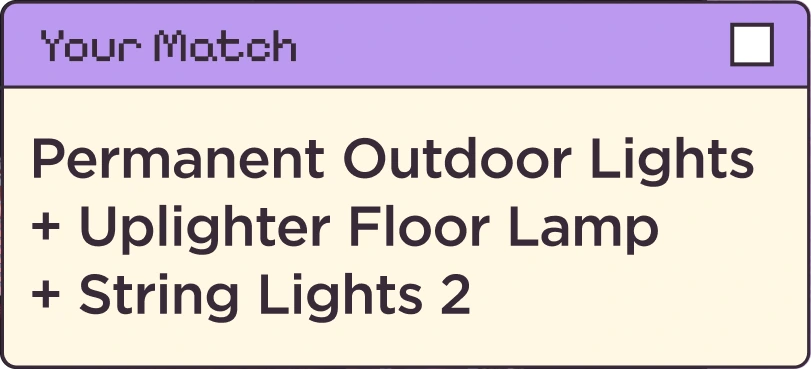
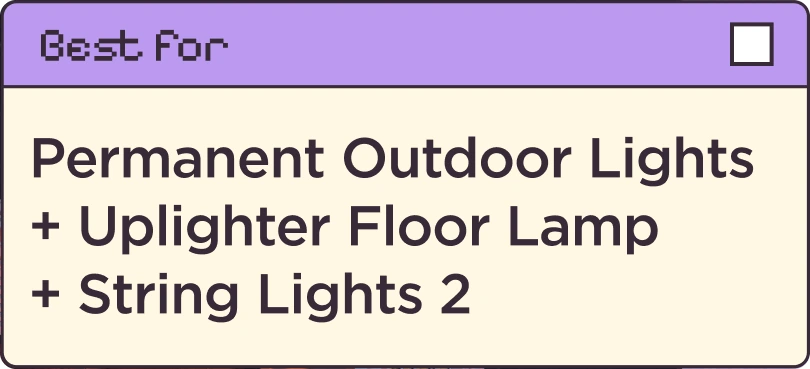
Cycle the photos on results 5 and 6, apply the 19 Nov frame changes
Client update 19 Nov: results 5 and 6 recommend several products, so their
photo now cycles "like a GIF".

- Photo cycle: r5 outdoor/indoor, r6 outdoor/indoor/Christmas room. A hard
  cut every 1.2s, looping, as in the client's Figma Motion export. All
  photos are preloaded and stacked so each cut is instant; WebP rather than
  GIF, so no colour banding. Reduce Motion keeps the first photo.
- Photos rendered from the original fills with Figma's crop (fitted against
  the animation frames); the Christmas photo is mirrored, as in Figma.
- r5 chip header "Your Product", r6 chip header "Best for" (moved 6px right,
  8px up), r5 lower stars moved up 4px: re-cut from the new frames. r6 outdoor
  photo re-cut so the old chip no longer shows behind the new one.
- r6: two yellow sparkles that float above the frame in Figma.
- Asset budget raised to 2.5 MB (every result now has a photo).

diff --git a/src/lib/art-layers.ts b/src/lib/art-layers.ts
@@ -88,8 +88,9 @@ export const ART_LAYERS: Record<string, ArtLayer[]> = {
     { src: "/art/r5/Group 10879104.svg", role: "sticker", x: 267.75, y: 516.25, w: 116, h: 75 },
     { src: "/art/r5/Group 10879102.svg", role: "decor", x: 301, y: 323.25, w: 60, h: 64 },
     { src: "/art/r5/Cursor.svg", role: "cursor", x: 322.5, y: 182.25, w: 60, h: 73 },
-    // A smaller, mirrored copy of the top cluster: cut from the frame.
-    { src: "/art/r5/stars-lower.webp", role: "decor-low", x: 24, y: 650.25, w: 53, h: 56.5 },
+    // A smaller, mirrored copy of the top cluster: cut from the frame
+    // (re-cut 19 Nov, when the client moved it up 4px).
+    { src: "/art/r5/stars-lower.webp", role: "decor-low", x: 23.5, y: 646, w: 52.75, h: 57 },
   ],
   r6: [
     { src: "/art/r6/Group 10879086.svg", role: "badge", x: 0, y: 47, w: 114, h: 141 },
@@ -100,6 +101,12 @@ export const ART_LAYERS: Record<string, ArtLayer[]> = {
     { src: "/art/r6/chip-best.webp", role: "chip", x: 12.5, y: 430.75, w: 149, h: 74.75 },
     { src: "/art/r6/Group 10879105.svg", role: "sticker", x: 262.75, y: 523, w: 117, h: 83 },
     { src: "/art/r6/Cursor.svg", role: "cursor", x: 322.5, y: 182.25, w: 60, h: 73 },
+    // Two yellow sparkles added 19 Nov. In Figma they float on the canvas
+    // above the frame (layers 427:2399 / 427:2400) rather than inside it, so
+    // no export includes them; placed by registering a zoomed canvas capture
+    // against the frame. Same vector at two sizes.
+    { src: "/art/r6/sparkle.svg", role: "decor", x: 25.8, y: 324.4, w: 55.92, h: 55.92 },
+    { src: "/art/r6/sparkle.svg", role: "decor-low", x: 30.5, y: 655.9, w: 46.22, h: 46.22 },
   ],
 };
 // r4b is r4's page with its own photo and "Your Match" chip.
@@ -120,16 +127,31 @@ export const EXPLORE_LINK = {
 } as const;
 
 /**
- * Below the fold on each result: the photo inside the window, and the
+ * Below the fold on each result: the photo(s) inside the window, and the
  * "Your Match" chip that overlaps the window's edge. The window frame itself
  * is drawn by PhotoWindow.tsx in the result's accent colour.
+ *
+ * `photos` (client update 19 Nov): r5 and r6 recommend several products, so
+ * their window cycles through one photo per setting, like a GIF. Timing is
+ * taken from Figma's Motion export: a hard cut every 1.2s, looping. The
+ * indoor photo is the same image and crop on both; r6's Christmas photo is
+ * mirrored in Figma, and is shipped mirrored.
  */
-export const RESULT_LOWER: Record<string, { photo: string; match: ArtLayer }> = {
+export const RESULT_LOWER: Record<string, { photo: string; photos?: string[]; match: ArtLayer }> = {
   r1: { photo: "/art/r1/photo.webp", match: { src: "/art/r1/chip-match.webp", role: "match", x: 20.5, y: 854.75, w: 148.5, h: 74.75 } },
   r2: { photo: "/art/r2/photo.webp", match: { src: "/art/r2/chip-match.webp", role: "match", x: 240.5, y: 792, w: 130.5, h: 74.75 } },
   r3: { photo: "/art/r3/photo.webp", match: { src: "/art/r3/chip-match.webp", role: "match", x: 20, y: 776.75, w: 130.75, h: 74.75 } },
   r4: { photo: "/art/r4/photo.webp", match: { src: "/art/r4/chip-match.webp", role: "match", x: 8.5, y: 830.75, w: 130.5, h: 74.75 } },
   r4b: { photo: "/art/r4b/photo.webp", match: { src: "/art/r4b/chip-match.webp", role: "match", x: 22.5, y: 815.75, w: 125.75, h: 75 } },
-  r5: { photo: "/art/r5/photo.webp", match: { src: "/art/r5/chip-match.webp", role: "match", x: 179.25, y: 774.5, w: 201.5, h: 74.75 } },
-  r6: { photo: "/art/r6/photo.webp", match: { src: "/art/r6/chip-match.webp", role: "match", x: 172, y: 781, w: 202.75, h: 92.25 } },
+  // r5's chip header reads "Your Product", r6's "Best for" (19 Nov frames).
+  r5: {
+    photo: "/art/r5/photo.webp",
+    photos: ["/art/r5/photo.webp", "/art/result/photo-indoor.webp"],
+    match: { src: "/art/r5/chip-match.webp", role: "match", x: 179.25, y: 774.5, w: 201.5, h: 74.75 },
+  },
+  r6: {
+    photo: "/art/r6/photo.webp",
+    photos: ["/art/r6/photo.webp", "/art/result/photo-indoor.webp", "/art/r6/photo-xmas.webp"],
+    match: { src: "/art/r6/chip-match.webp", role: "match", x: 178.25, y: 773, w: 202.5, h: 92.25 },
+  },
 };

diff --git a/src/components/PhotoWindow.tsx b/src/components/PhotoWindow.tsx
@@ -1,6 +1,7 @@
 "use client";
 
-import { useId } from "react";
+import { useEffect, useId, useState } from "react";
+import { useReducedMotion } from "framer-motion";
 
 /**
  * The browser-window frame around each result's photo (Figma group
@@ -40,17 +41,40 @@ function at(x: number, y: number, w: number, h: number): React.CSSProperties {
   return { position: "absolute", left: x, top: y, width: w, height: h, display: "block" };
 }
 
-export function PhotoWindow({ accent, photo, alt }: { accent: string; photo: string; alt: string }) {
+/** Hard cut between photos, as in the client's Figma Motion export. */
+const CYCLE_MS = 1200;
+
+export function PhotoWindow({ accent, photos, alt }: { accent: string; photos: string[]; alt: string }) {
   const id = useId().replace(/:/g, "");
+  const reduced = useReducedMotion();
+  const [shown, setShown] = useState(0);
+  const cycles = photos.length > 1 && !reduced;
+
+  useEffect(() => {
+    if (!cycles) return;
+    const t = window.setInterval(() => setShown((i) => (i + 1) % photos.length), CYCLE_MS);
+    return () => window.clearInterval(t);
+  }, [cycles, photos.length]);
+
   return (
     // Fills its parent, which ResultScreen places at PHOTO_WINDOW (so the
     // scroll-into-view reveal observes the window itself, not the page).
     <div className="photo-window" style={at(0, 0, PHOTO_WINDOW.w, PHOTO_WINDOW.h)}>
       {/* The photo runs from just under the title bar to the bottom bar. Its
           side borders are part of the image (they are the photo node's own
-          inside stroke in Figma). */}
-      {/* eslint-disable-next-line @next/next/no-img-element */}
-      <img src={photo} alt={alt} style={at(0, 70.76, 308, 269.5)} />
+          inside stroke in Figma). Several photos are all loaded and stacked,
+          and only the current one is visible, so each cut is instant: a GIF
+          made of separate WebP frames, without GIF's 256-colour banding. */}
+      {photos.map((src, i) => (
+        // eslint-disable-next-line @next/next/no-img-element
+        <img
+          key={src}
+          src={src}
+          alt={i === 0 ? alt : ""}
+          aria-hidden={i === 0 ? undefined : true}
+          style={{ ...at(0, 70.76, 308, 269.5), visibility: i === (cycles ? shown : 0) ? "visible" : "hidden" }}
+        />
+      ))}
 
       <svg style={at(0, 0, 308.035, 71.6159)} viewBox="0 0 308.035 71.6159" aria-hidden>
         <defs>

diff --git a/src/components/ResultScreen.tsx b/src/components/ResultScreen.tsx
@@ -172,7 +172,7 @@ export function ResultScreen({ id }: { id: ResultId }) {
               >
                 <PhotoWindow
                   accent={result.ctaFill}
-                  photo={lower.photo}
+                  photos={lower.photos ?? [lower.photo]}
                   alt={`${result.products.join(" + ")} lighting a room`}
                 />
               </motion.div>

diff --git a/docs/ART-LAYERS.md b/docs/ART-LAYERS.md
@@ -42,6 +42,36 @@ Verified by rendering each page at 390x1180 @2x and diffing against the 4x
 export: 3.5-7.5% of pixels differ by more than 24/255, nearly all of it text
 anti-aliasing and photo detail.
 
+## Results 5 and 6: photo cycle (19 Nov 2026)
+
+The client made the photo on the two multi-product results cycle "like a
+GIF". In Figma this is a Motion timeline on new frames (result #5 495:162,
+result #6 495:298): stacked photo layers, shown one at a time.
+
+* **Timing** is read from Figma's own animated (MP4) export: a hard cut every
+  1.2s, looping (r5 2 photos = 2.4s, r6 3 photos = 3.6s). Nothing else on
+  the page moves.
+* **Photos.** r5: outdoor, indoor. r6: outdoor, indoor, Christmas room. The
+  layers above the first are transparent at rest, so a static export of them
+  is empty; each was rendered from its original image fill, with the crop
+  (scale and offset) fitted against the video frames. The indoor photo has
+  the same image and crop on both results and ships once
+  (`/art/result/photo-indoor.webp`). r6's Christmas photo is mirrored in
+  Figma. Every photo carries the window's 1.36px side outline.
+* **In the page**, `PhotoWindow` stacks all the photos and toggles which one
+  is visible, so cuts are instant and there is no GIF colour banding. With
+  Reduce Motion on, the first photo stays.
+* **Also changed on these frames:** r5's chip header reads "Your Product",
+  r6's reads "Best for" (and moved 6px right, 8px up); r5's lower stars moved
+  up 4px. All re-cut from 4x exports of the new frames.
+* **r6's two yellow sparkles** sit on the canvas above the frame rather than
+  inside it (layers 427:2399 and 427:2400), so no export includes them. They
+  were placed by registering a zoomed canvas capture against the frame, and
+  use the sparkle's own SVG export.
+
+Checked by rendering each page and each photo phase against the frame and the
+video: within video-compression noise (3.7-8.4/255 mean difference).
+
 ## How positions were derived
 
 The layer SVGs carry no coordinates, so every position is measured.

diff --git a/README.md b/README.md
@@ -53,6 +53,8 @@ photo), a photo of the lights in a real room inside a browser window, a
 the screen width (`--sw`) and scrolls inside `.result-screen`; html/body stay
 fixed so the browser-bar tinting keeps working. The window frame is drawn by
 `PhotoWindow.tsx` from Figma's own paths, in each result's accent colour.
+Results 5 and 6 recommend several products, so their photo cycles through one
+photo per setting, a hard cut every 1.2s, as in the client's Figma animation.
 
 ### Desktop
 
